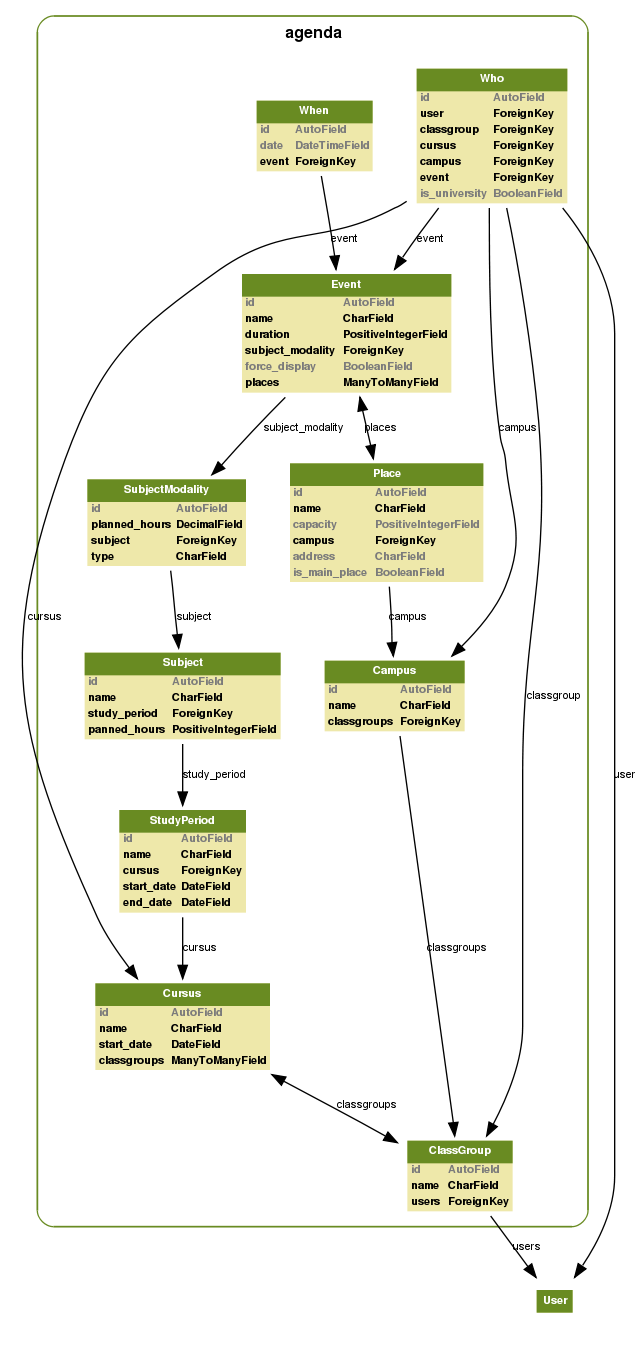
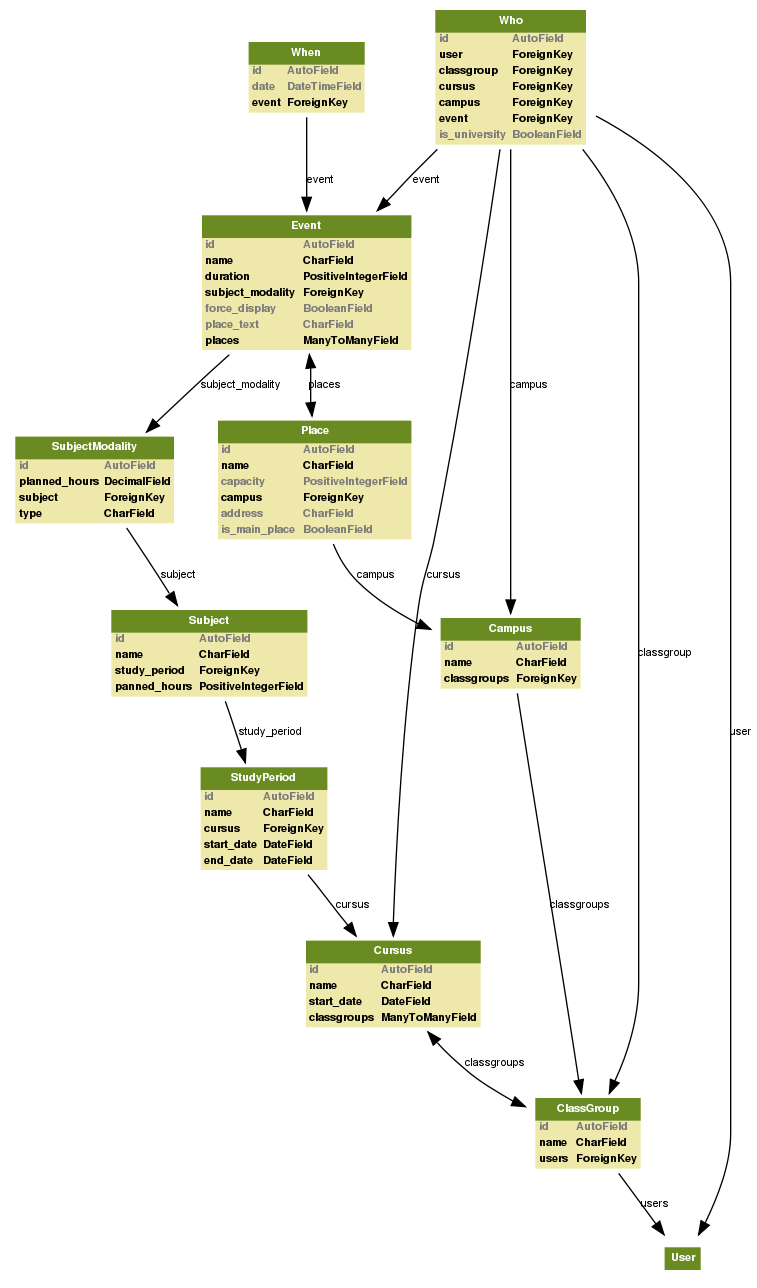
add usecases, update documentation

diff --git a/agenda/models.py b/agenda/models.py
@@ -101,9 +101,10 @@ class SubjectModality(models.Model):
 class Event(models.Model):
     name = models.CharField(blank=False, max_length=150)
     duration = models.PositiveIntegerField(blank=False, null=False)
-    places = models.ManyToManyField(Place)
+    places = models.ManyToManyField(Place, null=True)
     subject_modality = models.ForeignKey(SubjectModality)
     force_display = models.BooleanField(default=False)
+    place_text = models.CharField(max_length=255, blank=True)
     
     def __unicode__(self):
         return self.name

diff --git a/doc/source/analyse.rst b/doc/source/analyse.rst
@@ -21,9 +21,7 @@ Cas d'utilisation
 Voici l'ensemble des cas d'utilisation, qui sont illustré grace au diagramme UML
 disponible juste en dessous.
 
-    * En tant qu'étudiant, je souhaites
-    * En tant que campus manager, je souhaites
-    * En tant que 
+.. image:: pictures/usecases.svg
 
 Données / Diagrame  de classes
 -------------------------------
